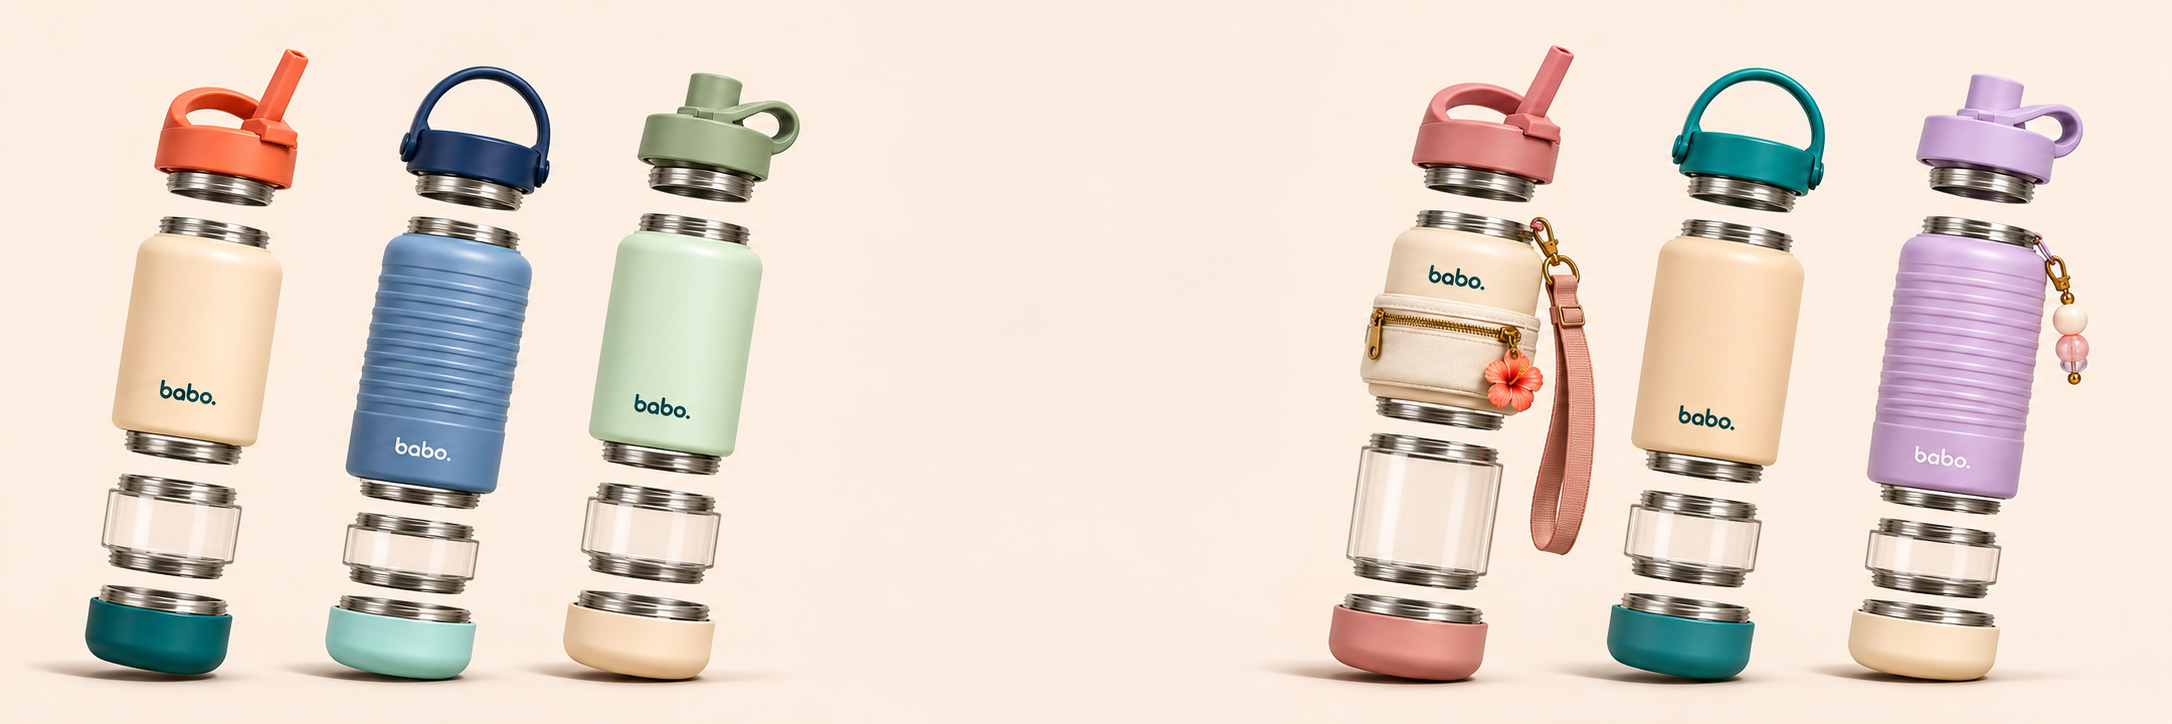
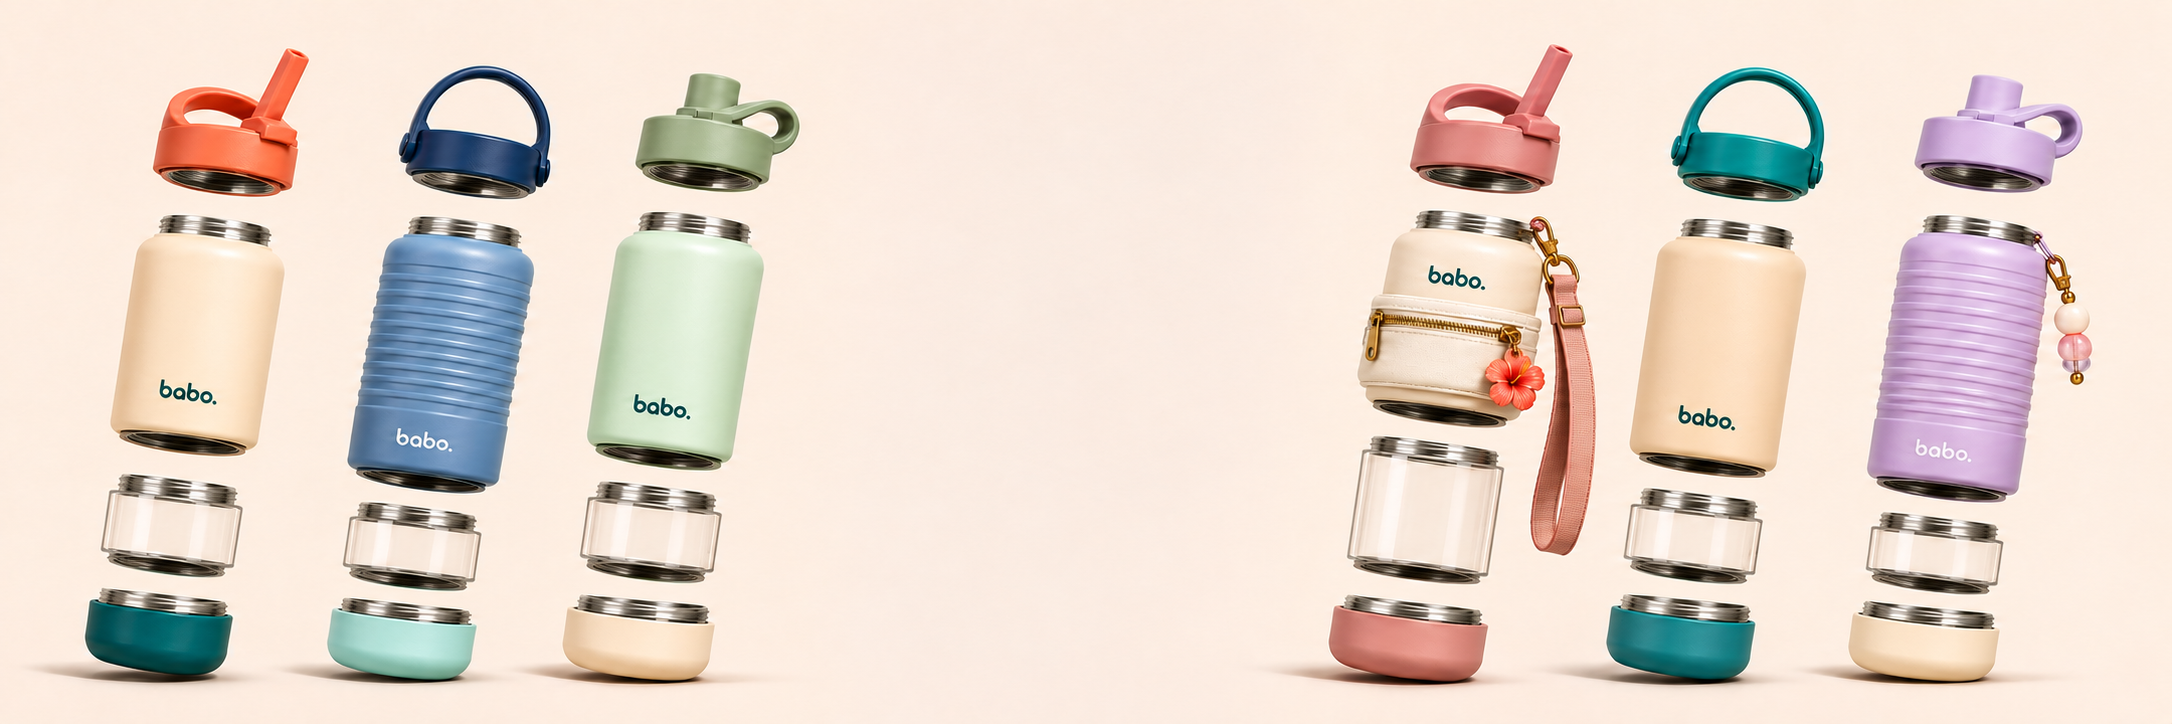
Correct modular joints to upward threads and recessed sockets

diff --git a/app.js b/app.js
@@ -15,7 +15,7 @@ const coverPresets=[
  {id:'teal',name:'Teal + sand',build:coverBuild({lid:'loop',body:'smooth',extensions:['short'],base:'standard',colors:{lid:'#007d87',body:'#ecd5af',extension:'#eeeae2',base:'#007d87',handle:'#007d87'}})},
  {id:'lavender',name:'Lavender + cream',build:coverBuild({lid:'chug',body:'textured',extensions:['short'],base:'standard',attachments:['charm'],colors:{lid:'#b9a6ce',body:'#c7b2d6',extension:'#eeeae2',base:'#f6e9ce',handle:'#b9a6ce'}})}
 ];
-const coverRegions=[["coral","Straw lid","164,122 170,102 194,88 229,87 254,96 283,49 309,57 285,122 301,144 295,185 277,189 273,201 260,208 218,205 167,193 164,182 153,173 155,144"],["coral","Smooth body","159,215 219,218 271,229 268,244 278,249 285,266 261,437 245,444 241,459 229,467 173,463 124,453 126,439 111,433 110,416 138,250 147,239 158,238"],["coral","Short extension","119,475 172,479 237,490 236,504 244,507 237,559 227,575 172,579 111,564 101,549 107,506 112,490"],["coral","Base","99,584 154,588 225,601 225,612 234,618 229,649 218,667 202,674 134,673 101,660 84,645 87,615 91,600 99,599"],["navy","Loop lid","400,145 409,112 431,84 458,69 492,65 525,79 546,104 553,137 552,171 541,190 527,194 523,204 508,212 461,207 412,196 411,184 400,178 394,162"],["navy","Ribbed body","407,215 466,217 522,228 520,245 529,251 534,268 499,486 482,494 479,506 462,512 413,507 357,494 359,481 345,476 344,459 378,251 391,238 407,238"],["navy","Short extension","354,513 411,517 476,530 475,541 481,545 471,583 460,596 403,594 344,580 341,566 347,535 351,526"],["navy","Base","343,595 411,599 472,611 470,624 478,630 472,657 461,674 444,680 372,680 340,669 324,653 327,622 331,610 342,608"],["sage","Chug lid","643,115 682,113 691,73 741,81 741,111 777,102 798,105 813,121 812,143 798,155 777,159 770,179 755,185 753,197 735,204 686,198 646,188 648,174 636,163 638,139"],["sage","Smooth body","638,211 696,214 752,225 750,239 759,247 764,264 736,448 723,457 719,471 702,478 650,473 601,461 602,447 588,441 587,425 613,248 625,233 638,233"],["sage","Short extension","594,481 654,485 715,497 714,511 723,514 715,558 705,580 651,583 586,567 579,551 586,511 591,500"],["sage","Base","580,589 644,593 709,605 708,620 717,625 711,655 701,673 684,680 617,678 580,666 562,650 566,621 572,605 581,605"],["rose","Straw lid","1425,120 1437,98 1462,86 1492,84 1522,95 1553,45 1576,55 1550,121 1565,141 1557,181 1541,184 1537,196 1523,204 1471,200 1425,187 1425,175 1413,167 1416,142"],["rose","Smooth body","1417,208 1471,213 1528,224 1527,239 1538,246 1545,262 1518,406 1508,415 1503,429 1486,434 1427,427 1375,417 1375,402 1362,395 1361,379 1390,241 1401,229 1417,230"],["rose","Long extension","1372,433 1435,438 1497,450 1496,465 1507,469 1488,572 1477,587 1418,592 1358,577 1346,560 1361,463 1367,449"],["rose","Base","1344,593 1403,597 1484,610 1481,624 1491,630 1484,658 1470,676 1453,682 1390,678 1346,665 1328,649 1333,619 1338,606 1345,607"],["rose","Carry strap","1539,216 1554,219 1565,242 1560,256 1576,271 1584,312 1594,399 1596,465 1590,515 1574,549 1552,557 1533,548 1528,530 1534,490 1542,443 1550,383 1551,330 1544,284 1536,273 1533,255 1529,239"],["rose","Pouch","1375,292 1537,315 1544,330 1533,385 1522,406 1384,393 1365,383 1359,366 1367,315"],["rose","Flower charm","1497,346 1521,349 1541,364 1546,384 1538,400 1524,411 1504,409 1488,398 1483,381 1485,363"],["teal","Loop lid","1674,145 1684,112 1708,86 1738,72 1771,69 1800,81 1820,107 1828,137 1827,174 1816,189 1801,194 1797,207 1781,213 1727,207 1688,196 1688,182 1676,177 1670,161"],["teal","Smooth body","1687,216 1741,219 1794,231 1792,246 1803,253 1808,270 1777,455 1765,463 1762,478 1744,485 1691,479 1644,467 1645,453 1631,447 1630,430 1659,252 1671,239 1687,239"],["teal","Short extension","1641,490 1695,495 1757,508 1756,523 1763,526 1755,567 1744,585 1690,590 1634,577 1623,561 1630,520 1637,506"],["teal","Base","1628,594 1686,598 1753,612 1752,626 1760,632 1753,657 1740,676 1723,683 1654,679 1625,667 1606,652 1611,622 1619,607 1629,608"],["lavender","Chug lid","1919,119 1961,116 1970,74 2025,83 2024,117 2060,106 2081,111 2095,128 2092,148 2078,161 2059,166 2051,184 2037,188 2034,200 2017,207 1965,201 1926,189 1927,176 1915,167 1915,141"],["lavender","Ribbed body","1922,215 1975,219 2038,230 2036,245 2045,252 2051,268 2017,487 2004,496 2001,510 1985,518 1926,512 1878,500 1879,486 1866,478 1865,461 1899,251 1911,238 1922,239"],["lavender","Short extension","1881,518 1936,522 1999,535 1998,548 2005,552 1999,583 1988,600 1930,604 1876,592 1863,577 1870,546 1877,531"],["lavender","Base","1860,603 1923,607 1996,620 1994,635 2002,641 1995,662 1981,679 1964,685 1899,680 1865,668 1846,653 1851,626 1857,614 1861,615"],["lavender","Bead charm","2037,230 2057,239 2066,261 2077,279 2088,293 2094,316 2089,335 2091,355 2084,376 2071,386 2059,375 2058,355 2059,337 2050,322 2054,302 2059,290 2046,265 2034,250"]];
+const coverRegions=[["coral","Straw lid","164,122 170,102 194,88 229,87 254,96 283,49 309,57 285,122 301,144 295,185 282,192 256,197 214,193 177,185 158,176 153,173 155,144"],["coral","Smooth body","159,215 219,218 271,229 268,244 278,249 285,266 260,438 248,448 224,455 181,454 137,445 116,439 110,431 110,416 138,250 147,239 158,238"],["coral","Short extension","119,475 172,479 237,490 236,504 244,507 236,559 226,571 200,576 168,572 127,565 110,558 101,549 107,506 112,490"],["coral","Base","99,584 154,588 225,601 225,612 234,618 229,649 218,667 202,674 134,673 101,660 84,645 87,615 91,600 99,599"],["navy","Loop lid","400,145 409,112 431,84 458,69 492,65 525,79 546,104 553,137 552,171 541,190 527,197 503,200 461,196 419,187 403,178 394,162"],["navy","Ribbed body","407,215 466,217 522,228 520,245 529,251 534,268 499,478 487,486 467,492 440,491 391,482 358,476 346,468 344,459 378,251 391,238 407,238"],["navy","Short extension","354,513 411,517 476,530 475,541 481,545 471,579 458,588 431,592 403,589 367,581 349,575 341,566 347,535 351,526"],["navy","Base","343,595 411,599 472,611 470,624 478,630 472,657 461,674 444,680 372,680 340,669 324,653 327,622 331,610 342,608"],["sage","Chug lid","643,115 682,113 691,73 741,81 741,111 777,102 798,105 813,121 812,143 798,155 777,159 770,179 755,189 731,194 687,188 653,179 637,167 636,163 638,139"],["sage","Smooth body","638,211 696,214 752,225 750,239 759,247 764,264 736,448 723,461 700,470 671,469 632,461 603,453 589,442 587,425 613,248 625,233 638,233"],["sage","Short extension","594,481 654,485 715,497 714,511 723,514 714,558 701,574 674,581 646,577 607,569 588,560 579,551 586,511 591,500"],["sage","Base","580,589 644,593 709,605 708,620 717,625 711,655 701,673 684,680 617,678 580,666 562,650 566,621 572,605 581,605"],["rose","Straw lid","1425,120 1437,98 1462,86 1492,84 1522,95 1553,45 1576,55 1550,121 1565,141 1557,181 1544,190 1518,195 1474,190 1438,182 1420,173 1413,167 1416,142"],["rose","Smooth body","1417,208 1471,213 1528,224 1527,239 1538,246 1545,262 1518,406 1505,419 1481,427 1453,425 1415,418 1382,411 1367,401 1361,379 1390,241 1401,229 1417,230"],["rose","Long extension","1372,433 1435,438 1497,450 1496,465 1507,469 1488,570 1474,581 1447,586 1419,581 1376,574 1356,568 1346,560 1361,463 1367,449"],["rose","Base","1344,593 1403,597 1484,610 1481,624 1491,630 1484,658 1470,676 1453,682 1390,678 1346,665 1328,649 1333,619 1338,606 1345,607"],["rose","Carry strap","1539,216 1554,219 1565,242 1560,256 1576,271 1584,312 1594,399 1596,465 1590,515 1574,549 1552,557 1533,548 1528,530 1534,490 1542,443 1550,383 1551,330 1544,284 1536,273 1533,255 1529,239"],["rose","Pouch","1375,292 1537,315 1544,330 1533,385 1522,406 1384,393 1365,383 1359,366 1367,315"],["rose","Flower charm","1497,346 1521,349 1541,364 1546,384 1538,400 1524,411 1504,409 1488,398 1483,381 1485,363"],["teal","Loop lid","1674,145 1684,112 1708,86 1738,72 1771,69 1800,81 1820,107 1828,137 1827,174 1816,189 1802,197 1776,201 1732,197 1699,188 1682,179 1670,161"],["teal","Smooth body","1687,216 1741,219 1794,231 1792,246 1803,253 1808,270 1777,455 1764,467 1740,476 1710,473 1671,466 1645,457 1630,447 1630,430 1659,252 1671,239 1687,239"],["teal","Short extension","1641,490 1695,495 1757,508 1756,523 1763,526 1755,565 1741,579 1717,585 1686,582 1646,573 1632,567 1623,561 1630,520 1637,506"],["teal","Base","1628,594 1686,598 1753,612 1752,626 1760,632 1753,657 1740,676 1723,683 1654,679 1625,667 1606,652 1611,622 1619,607 1629,608"],["lavender","Chug lid","1919,119 1961,116 1970,74 2025,83 2024,117 2060,106 2081,111 2095,128 2092,148 2078,161 2059,166 2051,184 2037,192 2012,196 1971,189 1938,181 1922,173 1915,167 1915,141"],["lavender","Ribbed body","1922,215 1975,219 2038,230 2036,245 2045,252 2051,268 2017,487 2003,496 1980,502 1947,497 1903,490 1878,482 1866,474 1865,461 1899,251 1911,238 1922,239"],["lavender","Short extension","1881,518 1936,522 1999,535 1998,548 2005,552 1999,582 1986,591 1960,597 1933,592 1892,585 1874,580 1863,573 1870,546 1877,531"],["lavender","Base","1860,603 1923,607 1996,620 1994,635 2002,641 1995,662 1981,679 1964,685 1899,680 1865,668 1846,653 1851,626 1857,614 1861,615"],["lavender","Bead charm","2037,230 2057,239 2066,261 2077,279 2088,293 2094,316 2089,335 2091,355 2084,376 2071,386 2059,375 2058,355 2059,337 2050,322 2054,302 2059,290 2046,265 2034,250"]];
 function roundedRegion(points,radius=10){
  const vertices=points.split(/\s+/).map(pair=>pair.split(',').map(Number));
  const corners=vertices.map((point,index)=>{const prev=vertices[(index+vertices.length-1)%vertices.length],next=vertices[(index+1)%vertices.length];const before=Math.hypot(prev[0]-point[0],prev[1]-point[1]),after=Math.hypot(next[0]-point[0],next[1]-point[1]);const r=Math.min(radius,before/3,after/3);return {point,start:[point[0]+(prev[0]-point[0])*r/before,point[1]+(prev[1]-point[1])*r/before],end:[point[0]+(next[0]-point[0])*r/after,point[1]+(next[1]-point[1])*r/after]};});

diff --git a/assets/UPWARD_THREADS.md b/assets/UPWARD_THREADS.md
@@ -1,0 +1,8 @@
+# Upward threaded connections
+
+Built-in ImageGen precise object edit. Reference: assets/originals/babo-cover.png (previous version with opposing male collars). Output: assets/originals/babo-cover.png and public/assets/babo-cover.webp. Native2172×724; WebP quality90, same dimensions.
+
+Exact prompt:
+
+PRECISION MECHANICAL CORRECTION of exact reference photograph. Keep all six assemblies, positions, sizes, slants, palettes, accessories, gaps, logos, background, lighting and 2172x724 framing IDENTICAL. Fix threaded interface direction on EVERY bottle. ALL exposed MALE stainless steel thread collars point UPWARDS ONLY. Every body and clear extension has an upward male neck on its TOP edge. Every base has upward male collar on TOP edge. The BOTTOM of every body, clear extension and lid must be a RECESSED FEMALE threaded socket contained inside the colored shell or glass wall. ABSOLUTELY NO protruding steel neck, no exterior threaded cylinder, no bulging collar on ANY downward facing bottom edge. Remove the downward-projecting metal collars currently under all six lids, all six opaque bodies, and all clear chambers; replace with clean FLUSH thin bottom lip and dark recessed female opening (internal steel threads may only be subtly visible INSIDE, never below edge). Lids receive the body's top male neck INSIDE their underside. Bodies receive the extension's upward male collar INSIDE their flush bottoms. Extensions receive base's upward male collar INSIDE their flush bottoms. Mechanically believable male-to-female coaxial screw joints, never male facing male. Show upward stainless threads clearly, keep air separation gaps for exploded view. Important selective change: remove only DOWNWARD projecting metal collars; preserve every UPWARD neck, material, object region and composition. Premium photoreal commercial studio quality.
+

diff --git a/README.md b/README.md
@@ -52,7 +52,7 @@ Fonts load from Google Fonts with local sans-serif fallbacks. No application tra
 - `illustrations.js`: original code-generated SVG product and accessory illustrations.
 - `public/assets/`: optimized full-resolution WebP marketing photographs.
 - `assets/originals/`: lossless PNG image masters.
-- `assets/README.md`, `assets/COVER_AND_ATTACHMENTS.md`, `assets/FINAL_PHOTO_EDITS.md`, `assets/STUDIO_COVER.md`, `assets/EXPLODED_AND_SNACK.md`, `assets/ATTACHMENT_LOOP.md`: image methods, reference paths, exact prompts, and native resolutions.
+- `assets/README.md`, `assets/COVER_AND_ATTACHMENTS.md`, `assets/FINAL_PHOTO_EDITS.md`, `assets/STUDIO_COVER.md`, `assets/EXPLODED_AND_SNACK.md`, `assets/ATTACHMENT_LOOP.md`, `assets/UPWARD_THREADS.md`: image methods, reference paths, exact prompts, and native resolutions.
 
 ## Validation
 
